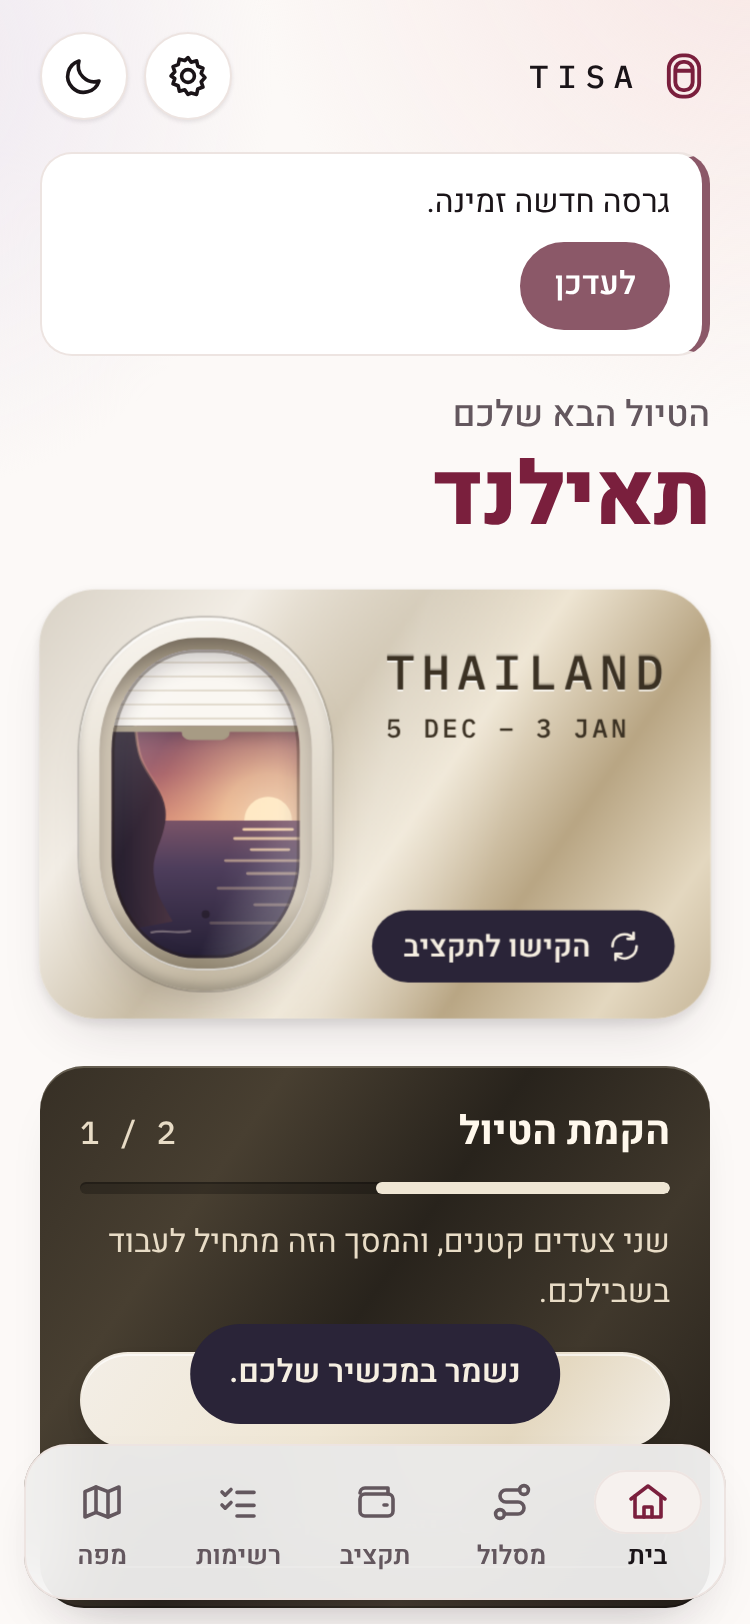
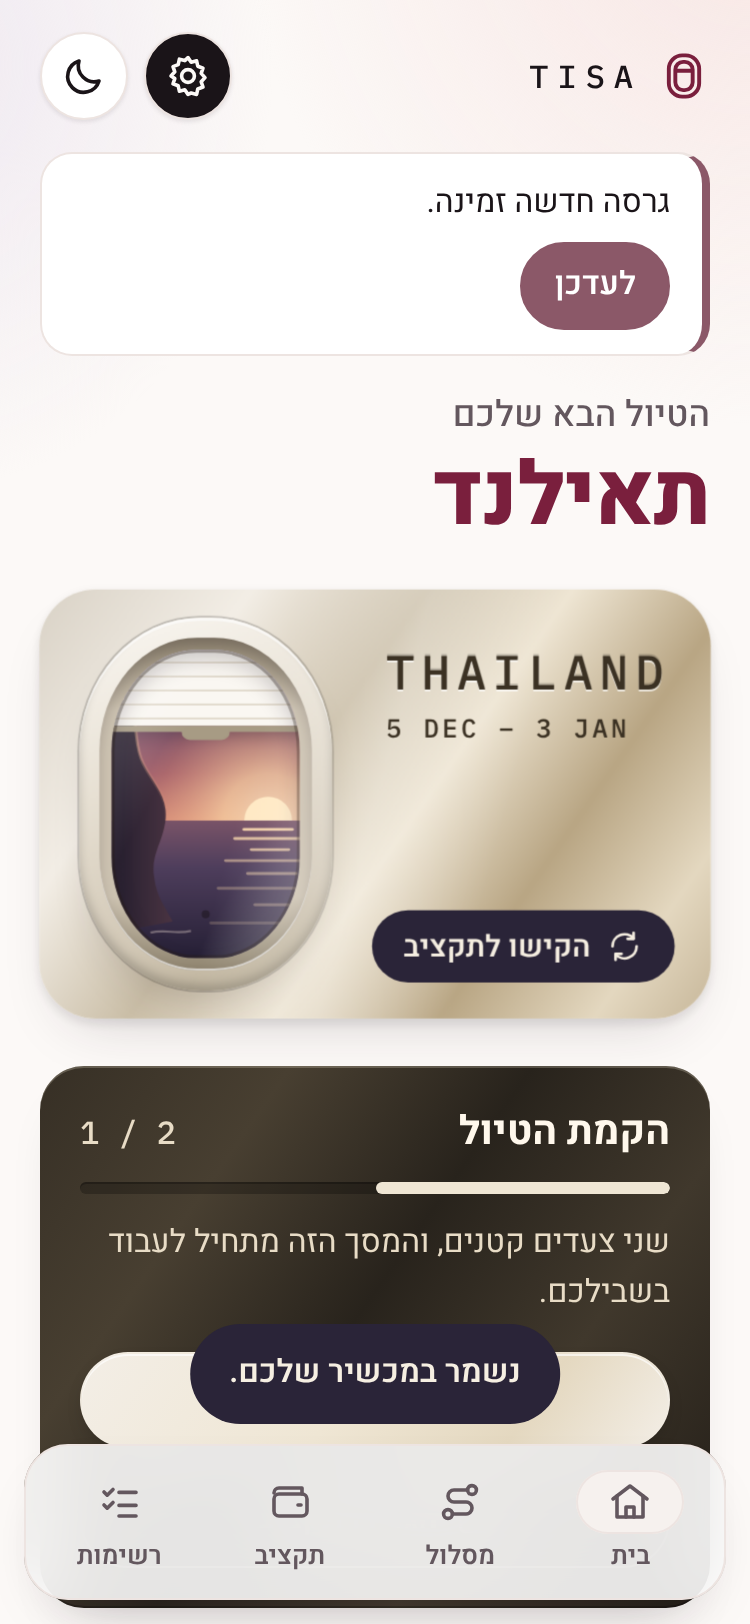
Close stage 2: remove map tab (4 tabs, #/map -> home), record owner's iPhone check, 0.2.2
Claude-Session: https://claude.ai/code/session_01PmrFChUzABAPWCKXEPkkRC

diff --git a/src/js/app.js b/src/js/app.js
@@ -25,10 +25,9 @@ const SCREENS = {
   transfers: { title: 'screen.transfers', icon: 'i-plane', stage: 5 },
   info: { title: 'screen.info', icon: 'i-doc', stage: 7 },
   assistant: { title: 'screen.assistant', icon: 'i-chat', stage: 7 },
-  map: { tab: 'map', title: 'nav.map', icon: 'i-map', stage: null },
   settings: {},
 };
-const LEGACY_ROUTES = { budget: 'money', lists: 'checklist' }; // Stage 1 used #budget and #lists
+const LEGACY_ROUTES = { budget: 'money', lists: 'checklist', map: 'home' }; // Stage 1 used #budget and #lists; the map tab was removed in 0.2.2
 
 function parseRoute(hash) {
   const m = /^#\/?([\w-]+)/.exec(hash ?? '');
@@ -430,7 +429,7 @@ function setupRouter(ctx) {
       panels.soon.setAttribute('aria-label', t(screen.title));
       $('[data-slot="soon-title"]').textContent = t(screen.title);
       $('[data-slot="soon-icon"]').setAttribute('href', ICONS + screen.icon);
-      $('[data-slot="soon-text"]').textContent = screen.stage ? interpolate(t('soon.stage'), { n: screen.stage }) : t('soon.notPlanned');
+      $('[data-slot="soon-text"]').textContent = interpolate(t('soon.stage'), { n: screen.stage });
       for (const a of $$('.soon-link', more)) a.hidden = a.dataset.route === route;
     }
     renderBanners(ctx);

diff --git a/tests/no-map.test.js b/tests/no-map.test.js
@@ -1,0 +1,25 @@
+// Stage 2 close-out: the "map" tab is removed (owner decision 2026-11-19). An interactive map is on the
+// experimental version's do-not-build list, so the app must not advertise it anywhere.
+import { test } from 'node:test';
+import assert from 'node:assert/strict';
+import { readText, readJson } from './helpers.js';
+
+test('M1: no map tab, route or copy', () => {
+  const html = readText('index.html');
+  assert.ok(!/data-tab="map"|nav\.map|i-map/.test(html), 'index.html still has the map tab');
+  assert.ok(!/\bmap:\s*\{/.test(readText('src/js/app.js')), 'app.js still has a map screen');
+  for (const loc of ['he', 'en']) {
+    const keys = Object.keys(readJson(`locales/${loc}.json`));
+    assert.deepEqual(keys.filter((k) => k === 'nav.map' || k === 'soon.notPlanned'), [], `${loc}.json`);
+  }
+});
+
+test('M2: the tab bar has exactly four tabs and a four-column grid', () => {
+  const html = readText('index.html');
+  assert.equal([...html.matchAll(/class="tab" role="tab"/g)].length, 4);
+  assert.match(readText('src/css/main.css'), /\.tabbar-list \{[^}]*repeat\(4,/);
+});
+
+test('M3: an old #/map link lands on home', () => {
+  assert.match(readText('src/js/app.js'), /LEGACY_ROUTES = \{[^}]*map: 'home'/);
+});

diff --git a/index.html b/index.html
@@ -301,10 +301,6 @@
           <span class="tab-chip"><svg class="icon" aria-hidden="true"><use href="./assets/icons.svg#i-list"/></svg></span>
           <span data-i18n="nav.lists">רשימות</span>
         </button>
-        <button class="tab" role="tab" id="tab-map" data-tab="map" data-route="map" data-icon="i-map" aria-selected="false" aria-controls="panel-soon" tabindex="-1" type="button">
-          <span class="tab-chip"><svg class="icon" aria-hidden="true"><use href="./assets/icons.svg#i-map"/></svg></span>
-          <span data-i18n="nav.map">מפה</span>
-        </button>
       </div>
     </nav>
 

diff --git a/src/css/main.css b/src/css/main.css
@@ -256,7 +256,7 @@ h2, .section-title { font-size: var(--text-h3); font-weight: 700; line-height: 1
   max-width: 560px; margin-inline: auto;
   border-radius: var(--radius-lg);
 }
-.tabbar-list { display: grid; grid-template-columns: repeat(5, minmax(0, 1fr)); padding: var(--space-1); }
+.tabbar-list { display: grid; grid-template-columns: repeat(4, minmax(0, 1fr)); padding: var(--space-1); }
 .tab {
   display: grid; justify-items: center; gap: 2px; min-height: var(--nav-height); padding: var(--space-2) 0;
   border: 0; background: none; color: var(--muted); border-radius: var(--radius-md); cursor: pointer;

diff --git a/sw.js b/sw.js
@@ -1,7 +1,7 @@
 // Service worker: keeps a full copy of the app on the device so it opens and works with no connection.
 // Data lives in localStorage and is never touched here. A new VERSION means a new cache; the new worker
 // waits until the user taps "Update" in the app (message SKIP_WAITING), then old caches are deleted.
-const VERSION = '0.2.1';
+const VERSION = '0.2.2';
 const CACHE = `tisa-${VERSION}`;
 const PRECACHE = [
   './',

diff --git a/docs/GOALS_STAGE2.md b/docs/GOALS_STAGE2.md
@@ -81,7 +81,7 @@
 | B9 | **PASS** | `npm test` › B9: חמש בדיקות כללים |
 | B10 | **PASS** | `npm test` › B10 |
 | B11 | **PASS** | 9 מסכים נפתחים מהניווט. "חזור" מהגדרות מחזיר למעברים, ורענון נשאר במעברים. הכתובת הישנה `#budget` הופכת ל-`#/money`. `aria-current` מסומן בכל מסך |
-| B12 | **PASS** | בכל מסך ריק יש כפתור אחד ("חזרה לבית") וטקסט "ייבנה בשלב X". המפה: "לא נכללת בגרסה הניסיונית". צילום: `empty-screen-itinerary.png` |
+| B12 | **PASS** | בכל מסך ריק יש כפתור אחד ("חזרה לבית") וטקסט "ייבנה בשלב X". צילום: `empty-screen-itinerary.png` |
 | B13 | **PASS** | התאריכים ומצב כהה נשמרו אחרי רענון |
 | B14 | **PASS** | הייצוא יצר `tisa-backup-YYYY-MM-DD.json`. ביטול הייבוא לא שינה דבר. קובץ זר נדחה עם הודעה, בלי דיאלוג. האיפוס נעול עד שמקלידים "איפוס", ומציע גיבוי קודם. צילומים: `import-dialog.png`, `reset-dialog.png` |
 | B15 | **PASS** | כשהגישה ל-localStorage זורקת `SecurityError`: הופיע פס, אפס שגיאות, ושמירת התאריכים עבדה בזיכרון. צילום: `banner-storage-blocked.png` |
@@ -98,8 +98,21 @@
 - זרימת ההקמה המלאה עובדת.
 - נמצא ותוקן באג אחד: לחיצה על לשונית העבירה את הפוקוס של המקלדת לתוכן, ובשלב 1 הוא נשאר על הלשונית. אחרי התיקון החיצים בסרגל עובדים כמו בשלב 1.
 
-### לא נבדק (עובר לבעל המוצר)
-- אייפון אמיתי ב-Safari.
-- התקנה למסך הבית בפועל.
-- מצב טיסה בטלפון.
-- GitHub Pages: הכתובת חסומה מהשרת שעליו אני עובד.
+### בדיקות של בעל המוצר (2026-11-19, לפי הדיווח שלו)
+- **GitHub Pages:** הופעל בהגדרות המאגר (ענף main, תיקייה root).
+- **אייפון אמיתי ב-Safari, כולל התקנה למסך הבית ומצב טיסה:** בעל המוצר ביצע את הצעדים על הטלפון שלו ודיווח שזה בוצע. אין לנו צילום או תיעוד של התוצאה, ולכן הבדיקה רשומה כ"בוצעה על ידי בעל המוצר" ולא כ-PASS עם הוכחה.
+
+## סגירת שלב 2 (2026-11-19, גרסה 0.2.2)
+- **עיצוב v2, "משמעת מתכת":** מוזג ל-main ב-PR #1. התיעוד נמצא ב-`docs/GOALS_DESIGN_V2.md` וב-`docs/DESIGN_SYSTEM.md`.
+- **לשונית "מפה" הוסרה,** לפי החלטת בעל המוצר:
+  - בסרגל נשארו 4 לשוניות.
+  - הכתובת `#/map` מפנה לבית.
+  - הוסרו האייקון והטקסטים של המפה.
+  - הבדיקות: `tests/no-map.test.js` (M1–M3). לפני ואחרי: `docs/evidence/stage2-close/compare-tabbar-390.png`.
+- **בלי שרת:** בעל המוצר החליט שחברים בודקים דרך קישור ה-Pages. לכל אחד יש נתונים משלו במכשיר שלו, והגיבוי נעשה דרך קובץ.
+- **תוצאות הבדיקות:**
+  - `npm test`: 65/65.
+  - `stage2-browser`: 12/12.
+  - 320 עד 1280, בבהיר ובכהה: אפס גלילה אופקית ואפס שגיאות.
+
+**שלב 2 סגור.**
